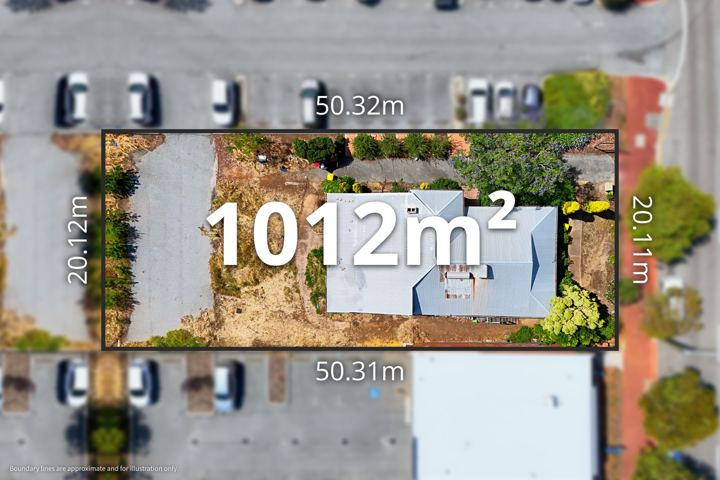
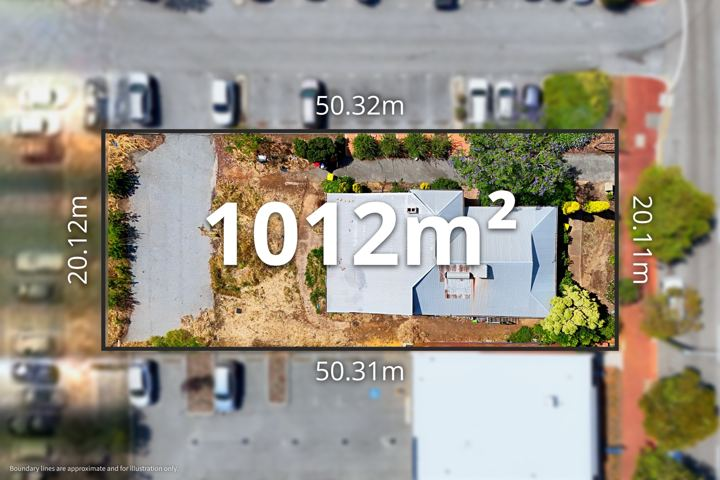
43 William St 0107: satellite background back, colour-matched to the drone
Claude-Session: https://claude.ai/code/session_01A5qGg2LnJXxgSHoMQFvEEG

Changed region(s): [[0.0, 0.125, 0.2139, 1.0], [0.0, 0.0, 0.1222, 0.0625]]

diff --git a/aerials/17-nov-2026/index.html b/aerials/17-nov-2026/index.html
@@ -5,4 +5,4 @@ body{margin:0;background:var(--bg);color:var(--fg);font:15px/1.45 system-ui,-app
 header,section{max-width:1400px;margin:auto;padding:18px 16px}h1{font-size:20px;margin:0}h2{font-size:17px;margin:0}header p,section p{color:var(--mut);margin:4px 0 0}
 .ed{margin-left:10px;color:var(--acc);font-weight:600;text-decoration:none}a{color:var(--acc)}
 .chk{margin-top:10px}.chk summary{cursor:pointer;color:var(--mut);font-weight:600}.chk iframe{width:100%;height:420px;border:0;border-radius:6px;margin-top:6px;background:#111}.g{display:grid;grid-template-columns:repeat(auto-fill,minmax(280px,1fr));gap:8px;margin-top:10px}.g img{width:100%;display:block;border-radius:4px}</style></head>
-<body><header><h1>Drone edits — Tue 17 Nov 2026</h1><p>Tap a photo for full size. <b>Edit</b> opens the job in the <a href="/pins/">editor</a> with all its pins and settings.</p></header><section><h2>SEND TO EDITOR — no lot boundary (Mac offline, no cadastre/satellite); hazy hills/horizon after sky swap on 0218/0220/0227/0229 (tower ghosting removed); both top-downs over-saturated and the house is off-centre — please re-edit sky/colour · 34 Croyden Rd, Roleystone WA 6111</h2><p>Jayden Cooke · Rodway · 13 photos (top-downs first) <a class="ed" href="/pins/?open=17-nov-2026/34_croyden_rd">Edit</a><a class="ed" href="/lots/?img=/aerials/17-nov-2026/34_croyden_rd/src/DJI_20261117135524_0236_D.jpg&street=Croyden%20Road" target="_blank">Lots</a><a class="ed" href="34_croyden_rd/check.html" target="_blank">Check map</a></p><div class="g"><a href="34_croyden_rd/DJI_20261117135524_0236_D.jpg?v=1794930465" target="_blank"><img loading="lazy" src="34_croyden_rd/t/DJI_20261117135524_0236_D.jpg?v=1794930465" alt=""></a><a href="34_croyden_rd/DJI_20261117135538_0237_D_r180_sq.jpg?v=1794930465" target="_blank"><img loading="lazy" src="34_croyden_rd/t/DJI_20261117135538_0237_D_r180_sq.jpg?v=1794930465" alt=""></a><a href="34_croyden_rd/DJI_20261117134904_0218_D.jpg?v=1794930465" target="_blank"><img loading="lazy" src="34_croyden_rd/t/DJI_20261117134904_0218_D.jpg?v=1794930465" alt=""></a><a href="34_croyden_rd/DJI_20261117135013_0220_D.jpg?v=1794930465" target="_blank"><img loading="lazy" src="34_croyden_rd/t/DJI_20261117135013_0220_D.jpg?v=1794930465" alt=""></a><a href="34_croyden_rd/DJI_20261117135036_0221_D.jpg?v=1794930465" target="_blank"><img loading="lazy" src="34_croyden_rd/t/DJI_20261117135036_0221_D.jpg?v=1794930465" alt=""></a><a href="34_croyden_rd/DJI_20261117135113_0223_D.jpg?v=1794930465" target="_blank"><img loading="lazy" src="34_croyden_rd/t/DJI_20261117135113_0223_D.jpg?v=1794930465" alt=""></a><a href="34_croyden_rd/DJI_20261117135138_0224_D.jpg?v=1794930465" target="_blank"><img loading="lazy" src="34_croyden_rd/t/DJI_20261117135138_0224_D.jpg?v=1794930465" alt=""></a><a href="34_croyden_rd/DJI_20261117135159_0225_D.jpg?v=1794930465" target="_blank"><img loading="lazy" src="34_croyden_rd/t/DJI_20261117135159_0225_D.jpg?v=1794930465" alt=""></a><a href="34_croyden_rd/DJI_20261117135227_0227_D.jpg?v=1794930465" target="_blank"><img loading="lazy" src="34_croyden_rd/t/DJI_20261117135227_0227_D.jpg?v=1794930465" alt=""></a><a href="34_croyden_rd/DJI_20261117135326_0229_D.jpg?v=1794930465" target="_blank"><img loading="lazy" src="34_croyden_rd/t/DJI_20261117135326_0229_D.jpg?v=1794930465" alt=""></a><a href="34_croyden_rd/DJI_20261117143956_0239_D.jpg?v=1794930465" target="_blank"><img loading="lazy" src="34_croyden_rd/t/DJI_20261117143956_0239_D.jpg?v=1794930465" alt=""></a><a href="34_croyden_rd/DJI_20261117144039_0240_D.jpg?v=1794930465" target="_blank"><img loading="lazy" src="34_croyden_rd/t/DJI_20261117144039_0240_D.jpg?v=1794930465" alt=""></a><a href="34_croyden_rd/DJI_20261117144046_0241_D.jpg?v=1794930465" target="_blank"><img loading="lazy" src="34_croyden_rd/t/DJI_20261117144046_0241_D.jpg?v=1794930465" alt=""></a></div><details class="chk" open><summary>Quick check — boundary + 9 pinned places</summary><iframe loading="lazy" src="34_croyden_rd/check.html?v=1794930467" title="Boundary and places check"></iframe></details></section><section><h2>SEND TO EDITOR — pale hard-edged band of old sky above the horizon on 0258/0259/0260 after the sky swap; no lot boundary (grouped dwelling, Mac offline) — please re-do the sky on those frames · 374 Light St, Dianella WA 6059</h2><p>Lucy Deng · Ausvision Realty · 11 photos (top-downs first) <a class="ed" href="/pins/?open=17-nov-2026/374_light_st">Edit</a><a class="ed" href="/lots/?img=/aerials/17-nov-2026/374_light_st/src/DJI_20261117160634_0269_D_r180.jpg&street=Light%20Street" target="_blank">Lots</a><a class="ed" href="374_light_st/check.html" target="_blank">Check map</a></p><div class="g"><a href="374_light_st/DJI_20261117160634_0269_D_r180.jpg?v=1794930470" target="_blank"><img loading="lazy" src="374_light_st/t/DJI_20261117160634_0269_D_r180.jpg?v=1794930470" alt=""></a><a href="374_light_st/DJI_20261117160607_0267_D_sq.jpg?v=1794930470" target="_blank"><img loading="lazy" src="374_light_st/t/DJI_20261117160607_0267_D_sq.jpg?v=1794930470" alt=""></a><a href="374_light_st/DJI_20261117160019_0257_D.jpg?v=1794930470" target="_blank"><img loading="lazy" src="374_light_st/t/DJI_20261117160019_0257_D.jpg?v=1794930470" alt=""></a><a href="374_light_st/DJI_20261117160038_0258_D.jpg?v=1794930470" target="_blank"><img loading="lazy" src="374_light_st/t/DJI_20261117160038_0258_D.jpg?v=1794930470" alt=""></a><a href="374_light_st/DJI_20261117160056_0259_D.jpg?v=1794930470" target="_blank"><img loading="lazy" src="374_light_st/t/DJI_20261117160056_0259_D.jpg?v=1794930470" alt=""></a><a href="374_light_st/DJI_20261117160119_0260_D.jpg?v=1794930470" target="_blank"><img loading="lazy" src="374_light_st/t/DJI_20261117160119_0260_D.jpg?v=1794930470" alt=""></a><a href="374_light_st/DJI_20261117160147_0261_D.jpg?v=1794930470" target="_blank"><img loading="lazy" src="374_light_st/t/DJI_20261117160147_0261_D.jpg?v=1794930470" alt=""></a><a href="374_light_st/DJI_20261117160253_0263_D.jpg?v=1794930470" target="_blank"><img loading="lazy" src="374_light_st/t/DJI_20261117160253_0263_D.jpg?v=1794930470" alt=""></a><a href="374_light_st/DJI_20261117160402_0264_D.jpg?v=1794930470" target="_blank"><img loading="lazy" src="374_light_st/t/DJI_20261117160402_0264_D.jpg?v=1794930470" alt=""></a><a href="374_light_st/DJI_20261117160425_0265_D.jpg?v=1794930470" target="_blank"><img loading="lazy" src="374_light_st/t/DJI_20261117160425_0265_D.jpg?v=1794930470" alt=""></a><a href="374_light_st/DJI_20261117160443_0266_D.jpg?v=1794930470" target="_blank"><img loading="lazy" src="374_light_st/t/DJI_20261117160443_0266_D.jpg?v=1794930470" alt=""></a></div><details class="chk" open><summary>Quick check — boundary + 17 pinned places</summary><iframe loading="lazy" src="374_light_st/check.html?v=1794930472" title="Boundary and places check"></iframe></details></section><section><h2>SEND TO EDITOR — white halo/glow strip along the ridge line on 0114/0115 (faint haze 0108/0111/0112) after the sky swap; house is out of shot on 0110 and 0114 (shooter framing) — please re-do the sky and check those frames · 43 William St, Armadale WA 6112</h2><p>Jayden Cooke · Rodway · 10 photos (top-downs first) <a class="ed" href="/pins/?open=17-nov-2026/43_william_st">Edit</a><a class="ed" href="/lots/?img=/aerials/17-nov-2026/43_william_st/src/dji_fly_20261117_102652_0102_1794923605590_photo_sq.JPG&street=William%20Street" target="_blank">Lots</a><a class="ed" href="43_william_st/check.html" target="_blank">Check map</a></p><div class="g"><a href="43_william_st/dji_fly_20261117_102652_0102_1794923605590_photo_sq.jpg?v=1795010000" target="_blank"><img loading="lazy" src="43_william_st/t/dji_fly_20261117_102652_0102_1794923605590_photo_sq.jpg?v=1795010000" alt=""></a><a href="43_william_st/dji_fly_20261117_102734_0107_1794923598787_photo_sq.jpg?v=1795060000" target="_blank"><img loading="lazy" src="43_william_st/t/dji_fly_20261117_102734_0107_1794923598787_photo_sq.jpg?v=1795060000" alt=""></a><a href="43_william_st/dji_fly_20261117_102804_0108_1794923597373_photo.jpg?v=1795010000" target="_blank"><img loading="lazy" src="43_william_st/t/dji_fly_20261117_102804_0108_1794923597373_photo.jpg?v=1795010000" alt=""></a><a href="43_william_st/dji_fly_20261117_102836_0109_1794923595154_photo.jpg?v=1795010000" target="_blank"><img loading="lazy" src="43_william_st/t/dji_fly_20261117_102836_0109_1794923595154_photo.jpg?v=1795010000" alt=""></a><a href="43_william_st/dji_fly_20261117_102942_0110_1794923593774_photo.jpg?v=1795010000" target="_blank"><img loading="lazy" src="43_william_st/t/dji_fly_20261117_102942_0110_1794923593774_photo.jpg?v=1795010000" alt=""></a><a href="43_william_st/dji_fly_20261117_103016_0111_1794923592394_photo.jpg?v=1795010000" target="_blank"><img loading="lazy" src="43_william_st/t/dji_fly_20261117_103016_0111_1794923592394_photo.jpg?v=1795010000" alt=""></a><a href="43_william_st/dji_fly_20261117_103050_0112_1794923591070_photo.jpg?v=1795010000" target="_blank"><img loading="lazy" src="43_william_st/t/dji_fly_20261117_103050_0112_1794923591070_photo.jpg?v=1795010000" alt=""></a><a href="43_william_st/dji_fly_20261117_103102_0113_1794923589788_photo.jpg?v=1795010000" target="_blank"><img loading="lazy" src="43_william_st/t/dji_fly_20261117_103102_0113_1794923589788_photo.jpg?v=1795010000" alt=""></a><a href="43_william_st/dji_fly_20261117_103116_0114_1794923588534_photo.jpg?v=1795010000" target="_blank"><img loading="lazy" src="43_william_st/t/dji_fly_20261117_103116_0114_1794923588534_photo.jpg?v=1795010000" alt=""></a><a href="43_william_st/dji_fly_20261117_103130_0115_1794923587236_photo.jpg?v=1795010000" target="_blank"><img loading="lazy" src="43_william_st/t/dji_fly_20261117_103130_0115_1794923587236_photo.jpg?v=1795010000" alt=""></a></div><details class="chk" open><summary>Quick check — boundary + 12 pinned places</summary><iframe loading="lazy" src="43_william_st/check.html?v=1794950668" title="Boundary and places check"></iframe></details></section><section><h2>SEND TO EDITOR — sky swap left ghost blocks of old sky above the horizon on 0125/0126/0127 and halos/ghosting around the CBD towers on 0118/0119/0128, grey haze over the hills on 0123/0124 — please replace the sky on every oblique · 28/76 Newcastle St, West Perth WA 6005</h2><p>Shane Garrett · Belle Property · 13 photos (top-downs first) <a class="ed" href="/pins/?open=17-nov-2026/28_76_newcastle_st">Edit</a><a class="ed" href="/lots/?img=/aerials/17-nov-2026/28_76_newcastle_st/src/dji_fly_20261117_123400_0117_1794923584798_photo_r180_sq.JPG&street=Newcastle%20Street" target="_blank">Lots</a><a class="ed" href="28_76_newcastle_st/check.html" target="_blank">Check map</a></p><div class="g"><a href="28_76_newcastle_st/dji_fly_20261117_123400_0117_1794923584798_photo_r180_sq.jpg?v=1794950677" target="_blank"><img loading="lazy" src="28_76_newcastle_st/t/dji_fly_20261117_123400_0117_1794923584798_photo_r180_sq.jpg?v=1794950677" alt=""></a><a href="28_76_newcastle_st/dji_fly_20261117_123356_0116_1794923585995_photo.jpg?v=1794950678" target="_blank"><img loading="lazy" src="28_76_newcastle_st/t/dji_fly_20261117_123356_0116_1794923585995_photo.jpg?v=1794950678" alt=""></a><a href="28_76_newcastle_st/dji_fly_20261117_123438_0118_1794923583683_photo.jpg?v=1794950678" target="_blank"><img loading="lazy" src="28_76_newcastle_st/t/dji_fly_20261117_123438_0118_1794923583683_photo.jpg?v=1794950678" alt=""></a><a href="28_76_newcastle_st/dji_fly_20261117_123500_0119_1794923582541_photo.jpg?v=1794950678" target="_blank"><img loading="lazy" src="28_76_newcastle_st/t/dji_fly_20261117_123500_0119_1794923582541_photo.jpg?v=1794950678" alt=""></a><a href="28_76_newcastle_st/dji_fly_20261117_123532_0120_1794923581349_photo.jpg?v=1794950678" target="_blank"><img loading="lazy" src="28_76_newcastle_st/t/dji_fly_20261117_123532_0120_1794923581349_photo.jpg?v=1794950678" alt=""></a><a href="28_76_newcastle_st/dji_fly_20261117_123548_0121_1794923580121_photo.jpg?v=1794950678" target="_blank"><img loading="lazy" src="28_76_newcastle_st/t/dji_fly_20261117_123548_0121_1794923580121_photo.jpg?v=1794950678" alt=""></a><a href="28_76_newcastle_st/dji_fly_20261117_123610_0122_1794923578874_photo.jpg?v=1794950678" target="_blank"><img loading="lazy" src="28_76_newcastle_st/t/dji_fly_20261117_123610_0122_1794923578874_photo.jpg?v=1794950678" alt=""></a><a href="28_76_newcastle_st/dji_fly_20261117_123630_0123_1794923577572_photo.jpg?v=1794950678" target="_blank"><img loading="lazy" src="28_76_newcastle_st/t/dji_fly_20261117_123630_0123_1794923577572_photo.jpg?v=1794950678" alt=""></a><a href="28_76_newcastle_st/dji_fly_20261117_123646_0124_1794923576272_photo.jpg?v=1794950678" target="_blank"><img loading="lazy" src="28_76_newcastle_st/t/dji_fly_20261117_123646_0124_1794923576272_photo.jpg?v=1794950678" alt=""></a><a href="28_76_newcastle_st/dji_fly_20261117_123702_0125_1794923575020_photo.jpg?v=1794950678" target="_blank"><img loading="lazy" src="28_76_newcastle_st/t/dji_fly_20261117_123702_0125_1794923575020_photo.jpg?v=1794950678" alt=""></a><a href="28_76_newcastle_st/dji_fly_20261117_123724_0126_1794923573753_photo.jpg?v=1794950678" target="_blank"><img loading="lazy" src="28_76_newcastle_st/t/dji_fly_20261117_123724_0126_1794923573753_photo.jpg?v=1794950678" alt=""></a><a href="28_76_newcastle_st/dji_fly_20261117_123754_0127_1794923572402_photo.jpg?v=1794950678" target="_blank"><img loading="lazy" src="28_76_newcastle_st/t/dji_fly_20261117_123754_0127_1794923572402_photo.jpg?v=1794950678" alt=""></a><a href="28_76_newcastle_st/dji_fly_20261117_123806_0128_1794923571185_photo.jpg?v=1794950678" target="_blank"><img loading="lazy" src="28_76_newcastle_st/t/dji_fly_20261117_123806_0128_1794923571185_photo.jpg?v=1794950678" alt=""></a></div><details class="chk" open><summary>Quick check — boundary + 8 pinned places</summary><iframe loading="lazy" src="28_76_newcastle_st/check.html?v=1794950681" title="Boundary and places check"></iframe></details></section><section><h2>SEND TO EDITOR — CBD tower tops ghosted after the sky swap on 0135/0136, faint halo 0131 and haze 0133/0134 — please re-do the sky on the obliques · 79/1178 Hay St, West Perth WA 6005</h2><p>Megan Topham · Belle Property · 12 photos (top-downs first) <a class="ed" href="/pins/?open=17-nov-2026/79_1178_hay_st">Edit</a><a class="ed" href="/lots/?img=/aerials/17-nov-2026/79_1178_hay_st/src/dji_fly_20261117_160212_0129_1794923569992_photo_r270.JPG&street=Hay%20Street" target="_blank">Lots</a><a class="ed" href="79_1178_hay_st/check.html" target="_blank">Check map</a></p><div class="g"><a href="79_1178_hay_st/dji_fly_20261117_160212_0129_1794923569992_photo_r270.jpg?v=1794950688" target="_blank"><img loading="lazy" src="79_1178_hay_st/t/dji_fly_20261117_160212_0129_1794923569992_photo_r270.jpg?v=1794950688" alt=""></a><a href="79_1178_hay_st/dji_fly_20261117_160212_0129_1794923569992_photo.jpg?v=1794950688" target="_blank"><img loading="lazy" src="79_1178_hay_st/t/dji_fly_20261117_160212_0129_1794923569992_photo.jpg?v=1794950688" alt=""></a><a href="79_1178_hay_st/dji_fly_20261117_160252_0130_1794923568799_photo.jpg?v=1794950688" target="_blank"><img loading="lazy" src="79_1178_hay_st/t/dji_fly_20261117_160252_0130_1794923568799_photo.jpg?v=1794950688" alt=""></a><a href="79_1178_hay_st/dji_fly_20261117_160320_0131_1794923567548_photo.jpg?v=1794950688" target="_blank"><img loading="lazy" src="79_1178_hay_st/t/dji_fly_20261117_160320_0131_1794923567548_photo.jpg?v=1794950688" alt=""></a><a href="79_1178_hay_st/dji_fly_20261117_160336_0132_1794923565379_photo.jpg?v=1794950688" target="_blank"><img loading="lazy" src="79_1178_hay_st/t/dji_fly_20261117_160336_0132_1794923565379_photo.jpg?v=1794950688" alt=""></a><a href="79_1178_hay_st/dji_fly_20261117_160354_0133_1794923564099_photo.jpg?v=1794950688" target="_blank"><img loading="lazy" src="79_1178_hay_st/t/dji_fly_20261117_160354_0133_1794923564099_photo.jpg?v=1794950688" alt=""></a><a href="79_1178_hay_st/dji_fly_20261117_160406_0134_1794923562823_photo.jpg?v=1794950688" target="_blank"><img loading="lazy" src="79_1178_hay_st/t/dji_fly_20261117_160406_0134_1794923562823_photo.jpg?v=1794950688" alt=""></a><a href="79_1178_hay_st/dji_fly_20261117_160428_0135_1794923561548_photo.jpg?v=1794950688" target="_blank"><img loading="lazy" src="79_1178_hay_st/t/dji_fly_20261117_160428_0135_1794923561548_photo.jpg?v=1794950688" alt=""></a><a href="79_1178_hay_st/dji_fly_20261117_160446_0136_1794923560286_photo.jpg?v=1794950688" target="_blank"><img loading="lazy" src="79_1178_hay_st/t/dji_fly_20261117_160446_0136_1794923560286_photo.jpg?v=1794950688" alt=""></a><a href="79_1178_hay_st/dji_fly_20261117_160512_0137_1794923559042_photo.jpg?v=1794950688" target="_blank"><img loading="lazy" src="79_1178_hay_st/t/dji_fly_20261117_160512_0137_1794923559042_photo.jpg?v=1794950688" alt=""></a><a href="79_1178_hay_st/dji_fly_20261117_160530_0138_1794923557769_photo.jpg?v=1794950688" target="_blank"><img loading="lazy" src="79_1178_hay_st/t/dji_fly_20261117_160530_0138_1794923557769_photo.jpg?v=1794950688" alt=""></a><a href="79_1178_hay_st/dji_fly_20261117_160548_0139_1794923556478_photo.jpg?v=1794950688" target="_blank"><img loading="lazy" src="79_1178_hay_st/t/dji_fly_20261117_160548_0139_1794923556478_photo.jpg?v=1794950688" alt=""></a></div><details class="chk" open><summary>Quick check — boundary + 10 pinned places</summary><iframe loading="lazy" src="79_1178_hay_st/check.html?v=1794950691" title="Boundary and places check"></iframe></details></section><script src="../dl.js"></script></body></html>
+<body><header><h1>Drone edits — Tue 17 Nov 2026</h1><p>Tap a photo for full size. <b>Edit</b> opens the job in the <a href="/pins/">editor</a> with all its pins and settings.</p></header><section><h2>SEND TO EDITOR — no lot boundary (Mac offline, no cadastre/satellite); hazy hills/horizon after sky swap on 0218/0220/0227/0229 (tower ghosting removed); both top-downs over-saturated and the house is off-centre — please re-edit sky/colour · 34 Croyden Rd, Roleystone WA 6111</h2><p>Jayden Cooke · Rodway · 13 photos (top-downs first) <a class="ed" href="/pins/?open=17-nov-2026/34_croyden_rd">Edit</a><a class="ed" href="/lots/?img=/aerials/17-nov-2026/34_croyden_rd/src/DJI_20261117135524_0236_D.jpg&street=Croyden%20Road" target="_blank">Lots</a><a class="ed" href="34_croyden_rd/check.html" target="_blank">Check map</a></p><div class="g"><a href="34_croyden_rd/DJI_20261117135524_0236_D.jpg?v=1794930465" target="_blank"><img loading="lazy" src="34_croyden_rd/t/DJI_20261117135524_0236_D.jpg?v=1794930465" alt=""></a><a href="34_croyden_rd/DJI_20261117135538_0237_D_r180_sq.jpg?v=1794930465" target="_blank"><img loading="lazy" src="34_croyden_rd/t/DJI_20261117135538_0237_D_r180_sq.jpg?v=1794930465" alt=""></a><a href="34_croyden_rd/DJI_20261117134904_0218_D.jpg?v=1794930465" target="_blank"><img loading="lazy" src="34_croyden_rd/t/DJI_20261117134904_0218_D.jpg?v=1794930465" alt=""></a><a href="34_croyden_rd/DJI_20261117135013_0220_D.jpg?v=1794930465" target="_blank"><img loading="lazy" src="34_croyden_rd/t/DJI_20261117135013_0220_D.jpg?v=1794930465" alt=""></a><a href="34_croyden_rd/DJI_20261117135036_0221_D.jpg?v=1794930465" target="_blank"><img loading="lazy" src="34_croyden_rd/t/DJI_20261117135036_0221_D.jpg?v=1794930465" alt=""></a><a href="34_croyden_rd/DJI_20261117135113_0223_D.jpg?v=1794930465" target="_blank"><img loading="lazy" src="34_croyden_rd/t/DJI_20261117135113_0223_D.jpg?v=1794930465" alt=""></a><a href="34_croyden_rd/DJI_20261117135138_0224_D.jpg?v=1794930465" target="_blank"><img loading="lazy" src="34_croyden_rd/t/DJI_20261117135138_0224_D.jpg?v=1794930465" alt=""></a><a href="34_croyden_rd/DJI_20261117135159_0225_D.jpg?v=1794930465" target="_blank"><img loading="lazy" src="34_croyden_rd/t/DJI_20261117135159_0225_D.jpg?v=1794930465" alt=""></a><a href="34_croyden_rd/DJI_20261117135227_0227_D.jpg?v=1794930465" target="_blank"><img loading="lazy" src="34_croyden_rd/t/DJI_20261117135227_0227_D.jpg?v=1794930465" alt=""></a><a href="34_croyden_rd/DJI_20261117135326_0229_D.jpg?v=1794930465" target="_blank"><img loading="lazy" src="34_croyden_rd/t/DJI_20261117135326_0229_D.jpg?v=1794930465" alt=""></a><a href="34_croyden_rd/DJI_20261117143956_0239_D.jpg?v=1794930465" target="_blank"><img loading="lazy" src="34_croyden_rd/t/DJI_20261117143956_0239_D.jpg?v=1794930465" alt=""></a><a href="34_croyden_rd/DJI_20261117144039_0240_D.jpg?v=1794930465" target="_blank"><img loading="lazy" src="34_croyden_rd/t/DJI_20261117144039_0240_D.jpg?v=1794930465" alt=""></a><a href="34_croyden_rd/DJI_20261117144046_0241_D.jpg?v=1794930465" target="_blank"><img loading="lazy" src="34_croyden_rd/t/DJI_20261117144046_0241_D.jpg?v=1794930465" alt=""></a></div><details class="chk" open><summary>Quick check — boundary + 9 pinned places</summary><iframe loading="lazy" src="34_croyden_rd/check.html?v=1794930467" title="Boundary and places check"></iframe></details></section><section><h2>SEND TO EDITOR — pale hard-edged band of old sky above the horizon on 0258/0259/0260 after the sky swap; no lot boundary (grouped dwelling, Mac offline) — please re-do the sky on those frames · 374 Light St, Dianella WA 6059</h2><p>Lucy Deng · Ausvision Realty · 11 photos (top-downs first) <a class="ed" href="/pins/?open=17-nov-2026/374_light_st">Edit</a><a class="ed" href="/lots/?img=/aerials/17-nov-2026/374_light_st/src/DJI_20261117160634_0269_D_r180.jpg&street=Light%20Street" target="_blank">Lots</a><a class="ed" href="374_light_st/check.html" target="_blank">Check map</a></p><div class="g"><a href="374_light_st/DJI_20261117160634_0269_D_r180.jpg?v=1794930470" target="_blank"><img loading="lazy" src="374_light_st/t/DJI_20261117160634_0269_D_r180.jpg?v=1794930470" alt=""></a><a href="374_light_st/DJI_20261117160607_0267_D_sq.jpg?v=1794930470" target="_blank"><img loading="lazy" src="374_light_st/t/DJI_20261117160607_0267_D_sq.jpg?v=1794930470" alt=""></a><a href="374_light_st/DJI_20261117160019_0257_D.jpg?v=1794930470" target="_blank"><img loading="lazy" src="374_light_st/t/DJI_20261117160019_0257_D.jpg?v=1794930470" alt=""></a><a href="374_light_st/DJI_20261117160038_0258_D.jpg?v=1794930470" target="_blank"><img loading="lazy" src="374_light_st/t/DJI_20261117160038_0258_D.jpg?v=1794930470" alt=""></a><a href="374_light_st/DJI_20261117160056_0259_D.jpg?v=1794930470" target="_blank"><img loading="lazy" src="374_light_st/t/DJI_20261117160056_0259_D.jpg?v=1794930470" alt=""></a><a href="374_light_st/DJI_20261117160119_0260_D.jpg?v=1794930470" target="_blank"><img loading="lazy" src="374_light_st/t/DJI_20261117160119_0260_D.jpg?v=1794930470" alt=""></a><a href="374_light_st/DJI_20261117160147_0261_D.jpg?v=1794930470" target="_blank"><img loading="lazy" src="374_light_st/t/DJI_20261117160147_0261_D.jpg?v=1794930470" alt=""></a><a href="374_light_st/DJI_20261117160253_0263_D.jpg?v=1794930470" target="_blank"><img loading="lazy" src="374_light_st/t/DJI_20261117160253_0263_D.jpg?v=1794930470" alt=""></a><a href="374_light_st/DJI_20261117160402_0264_D.jpg?v=1794930470" target="_blank"><img loading="lazy" src="374_light_st/t/DJI_20261117160402_0264_D.jpg?v=1794930470" alt=""></a><a href="374_light_st/DJI_20261117160425_0265_D.jpg?v=1794930470" target="_blank"><img loading="lazy" src="374_light_st/t/DJI_20261117160425_0265_D.jpg?v=1794930470" alt=""></a><a href="374_light_st/DJI_20261117160443_0266_D.jpg?v=1794930470" target="_blank"><img loading="lazy" src="374_light_st/t/DJI_20261117160443_0266_D.jpg?v=1794930470" alt=""></a></div><details class="chk" open><summary>Quick check — boundary + 17 pinned places</summary><iframe loading="lazy" src="374_light_st/check.html?v=1794930472" title="Boundary and places check"></iframe></details></section><section><h2>SEND TO EDITOR — white halo/glow strip along the ridge line on 0114/0115 (faint haze 0108/0111/0112) after the sky swap; house is out of shot on 0110 and 0114 (shooter framing) — please re-do the sky and check those frames · 43 William St, Armadale WA 6112</h2><p>Jayden Cooke · Rodway · 10 photos (top-downs first) <a class="ed" href="/pins/?open=17-nov-2026/43_william_st">Edit</a><a class="ed" href="/lots/?img=/aerials/17-nov-2026/43_william_st/src/dji_fly_20261117_102652_0102_1794923605590_photo_sq.JPG&street=William%20Street" target="_blank">Lots</a><a class="ed" href="43_william_st/check.html" target="_blank">Check map</a></p><div class="g"><a href="43_william_st/dji_fly_20261117_102652_0102_1794923605590_photo_sq.jpg?v=1795010000" target="_blank"><img loading="lazy" src="43_william_st/t/dji_fly_20261117_102652_0102_1794923605590_photo_sq.jpg?v=1795010000" alt=""></a><a href="43_william_st/dji_fly_20261117_102734_0107_1794923598787_photo_sq.jpg?v=1795070000" target="_blank"><img loading="lazy" src="43_william_st/t/dji_fly_20261117_102734_0107_1794923598787_photo_sq.jpg?v=1795070000" alt=""></a><a href="43_william_st/dji_fly_20261117_102804_0108_1794923597373_photo.jpg?v=1795010000" target="_blank"><img loading="lazy" src="43_william_st/t/dji_fly_20261117_102804_0108_1794923597373_photo.jpg?v=1795010000" alt=""></a><a href="43_william_st/dji_fly_20261117_102836_0109_1794923595154_photo.jpg?v=1795010000" target="_blank"><img loading="lazy" src="43_william_st/t/dji_fly_20261117_102836_0109_1794923595154_photo.jpg?v=1795010000" alt=""></a><a href="43_william_st/dji_fly_20261117_102942_0110_1794923593774_photo.jpg?v=1795010000" target="_blank"><img loading="lazy" src="43_william_st/t/dji_fly_20261117_102942_0110_1794923593774_photo.jpg?v=1795010000" alt=""></a><a href="43_william_st/dji_fly_20261117_103016_0111_1794923592394_photo.jpg?v=1795010000" target="_blank"><img loading="lazy" src="43_william_st/t/dji_fly_20261117_103016_0111_1794923592394_photo.jpg?v=1795010000" alt=""></a><a href="43_william_st/dji_fly_20261117_103050_0112_1794923591070_photo.jpg?v=1795010000" target="_blank"><img loading="lazy" src="43_william_st/t/dji_fly_20261117_103050_0112_1794923591070_photo.jpg?v=1795010000" alt=""></a><a href="43_william_st/dji_fly_20261117_103102_0113_1794923589788_photo.jpg?v=1795010000" target="_blank"><img loading="lazy" src="43_william_st/t/dji_fly_20261117_103102_0113_1794923589788_photo.jpg?v=1795010000" alt=""></a><a href="43_william_st/dji_fly_20261117_103116_0114_1794923588534_photo.jpg?v=1795010000" target="_blank"><img loading="lazy" src="43_william_st/t/dji_fly_20261117_103116_0114_1794923588534_photo.jpg?v=1795010000" alt=""></a><a href="43_william_st/dji_fly_20261117_103130_0115_1794923587236_photo.jpg?v=1795010000" target="_blank"><img loading="lazy" src="43_william_st/t/dji_fly_20261117_103130_0115_1794923587236_photo.jpg?v=1795010000" alt=""></a></div><details class="chk" open><summary>Quick check — boundary + 12 pinned places</summary><iframe loading="lazy" src="43_william_st/check.html?v=1794950668" title="Boundary and places check"></iframe></details></section><section><h2>SEND TO EDITOR — sky swap left ghost blocks of old sky above the horizon on 0125/0126/0127 and halos/ghosting around the CBD towers on 0118/0119/0128, grey haze over the hills on 0123/0124 — please replace the sky on every oblique · 28/76 Newcastle St, West Perth WA 6005</h2><p>Shane Garrett · Belle Property · 13 photos (top-downs first) <a class="ed" href="/pins/?open=17-nov-2026/28_76_newcastle_st">Edit</a><a class="ed" href="/lots/?img=/aerials/17-nov-2026/28_76_newcastle_st/src/dji_fly_20261117_123400_0117_1794923584798_photo_r180_sq.JPG&street=Newcastle%20Street" target="_blank">Lots</a><a class="ed" href="28_76_newcastle_st/check.html" target="_blank">Check map</a></p><div class="g"><a href="28_76_newcastle_st/dji_fly_20261117_123400_0117_1794923584798_photo_r180_sq.jpg?v=1794950677" target="_blank"><img loading="lazy" src="28_76_newcastle_st/t/dji_fly_20261117_123400_0117_1794923584798_photo_r180_sq.jpg?v=1794950677" alt=""></a><a href="28_76_newcastle_st/dji_fly_20261117_123356_0116_1794923585995_photo.jpg?v=1794950678" target="_blank"><img loading="lazy" src="28_76_newcastle_st/t/dji_fly_20261117_123356_0116_1794923585995_photo.jpg?v=1794950678" alt=""></a><a href="28_76_newcastle_st/dji_fly_20261117_123438_0118_1794923583683_photo.jpg?v=1794950678" target="_blank"><img loading="lazy" src="28_76_newcastle_st/t/dji_fly_20261117_123438_0118_1794923583683_photo.jpg?v=1794950678" alt=""></a><a href="28_76_newcastle_st/dji_fly_20261117_123500_0119_1794923582541_photo.jpg?v=1794950678" target="_blank"><img loading="lazy" src="28_76_newcastle_st/t/dji_fly_20261117_123500_0119_1794923582541_photo.jpg?v=1794950678" alt=""></a><a href="28_76_newcastle_st/dji_fly_20261117_123532_0120_1794923581349_photo.jpg?v=1794950678" target="_blank"><img loading="lazy" src="28_76_newcastle_st/t/dji_fly_20261117_123532_0120_1794923581349_photo.jpg?v=1794950678" alt=""></a><a href="28_76_newcastle_st/dji_fly_20261117_123548_0121_1794923580121_photo.jpg?v=1794950678" target="_blank"><img loading="lazy" src="28_76_newcastle_st/t/dji_fly_20261117_123548_0121_1794923580121_photo.jpg?v=1794950678" alt=""></a><a href="28_76_newcastle_st/dji_fly_20261117_123610_0122_1794923578874_photo.jpg?v=1794950678" target="_blank"><img loading="lazy" src="28_76_newcastle_st/t/dji_fly_20261117_123610_0122_1794923578874_photo.jpg?v=1794950678" alt=""></a><a href="28_76_newcastle_st/dji_fly_20261117_123630_0123_1794923577572_photo.jpg?v=1794950678" target="_blank"><img loading="lazy" src="28_76_newcastle_st/t/dji_fly_20261117_123630_0123_1794923577572_photo.jpg?v=1794950678" alt=""></a><a href="28_76_newcastle_st/dji_fly_20261117_123646_0124_1794923576272_photo.jpg?v=1794950678" target="_blank"><img loading="lazy" src="28_76_newcastle_st/t/dji_fly_20261117_123646_0124_1794923576272_photo.jpg?v=1794950678" alt=""></a><a href="28_76_newcastle_st/dji_fly_20261117_123702_0125_1794923575020_photo.jpg?v=1794950678" target="_blank"><img loading="lazy" src="28_76_newcastle_st/t/dji_fly_20261117_123702_0125_1794923575020_photo.jpg?v=1794950678" alt=""></a><a href="28_76_newcastle_st/dji_fly_20261117_123724_0126_1794923573753_photo.jpg?v=1794950678" target="_blank"><img loading="lazy" src="28_76_newcastle_st/t/dji_fly_20261117_123724_0126_1794923573753_photo.jpg?v=1794950678" alt=""></a><a href="28_76_newcastle_st/dji_fly_20261117_123754_0127_1794923572402_photo.jpg?v=1794950678" target="_blank"><img loading="lazy" src="28_76_newcastle_st/t/dji_fly_20261117_123754_0127_1794923572402_photo.jpg?v=1794950678" alt=""></a><a href="28_76_newcastle_st/dji_fly_20261117_123806_0128_1794923571185_photo.jpg?v=1794950678" target="_blank"><img loading="lazy" src="28_76_newcastle_st/t/dji_fly_20261117_123806_0128_1794923571185_photo.jpg?v=1794950678" alt=""></a></div><details class="chk" open><summary>Quick check — boundary + 8 pinned places</summary><iframe loading="lazy" src="28_76_newcastle_st/check.html?v=1794950681" title="Boundary and places check"></iframe></details></section><section><h2>SEND TO EDITOR — CBD tower tops ghosted after the sky swap on 0135/0136, faint halo 0131 and haze 0133/0134 — please re-do the sky on the obliques · 79/1178 Hay St, West Perth WA 6005</h2><p>Megan Topham · Belle Property · 12 photos (top-downs first) <a class="ed" href="/pins/?open=17-nov-2026/79_1178_hay_st">Edit</a><a class="ed" href="/lots/?img=/aerials/17-nov-2026/79_1178_hay_st/src/dji_fly_20261117_160212_0129_1794923569992_photo_r270.JPG&street=Hay%20Street" target="_blank">Lots</a><a class="ed" href="79_1178_hay_st/check.html" target="_blank">Check map</a></p><div class="g"><a href="79_1178_hay_st/dji_fly_20261117_160212_0129_1794923569992_photo_r270.jpg?v=1794950688" target="_blank"><img loading="lazy" src="79_1178_hay_st/t/dji_fly_20261117_160212_0129_1794923569992_photo_r270.jpg?v=1794950688" alt=""></a><a href="79_1178_hay_st/dji_fly_20261117_160212_0129_1794923569992_photo.jpg?v=1794950688" target="_blank"><img loading="lazy" src="79_1178_hay_st/t/dji_fly_20261117_160212_0129_1794923569992_photo.jpg?v=1794950688" alt=""></a><a href="79_1178_hay_st/dji_fly_20261117_160252_0130_1794923568799_photo.jpg?v=1794950688" target="_blank"><img loading="lazy" src="79_1178_hay_st/t/dji_fly_20261117_160252_0130_1794923568799_photo.jpg?v=1794950688" alt=""></a><a href="79_1178_hay_st/dji_fly_20261117_160320_0131_1794923567548_photo.jpg?v=1794950688" target="_blank"><img loading="lazy" src="79_1178_hay_st/t/dji_fly_20261117_160320_0131_1794923567548_photo.jpg?v=1794950688" alt=""></a><a href="79_1178_hay_st/dji_fly_20261117_160336_0132_1794923565379_photo.jpg?v=1794950688" target="_blank"><img loading="lazy" src="79_1178_hay_st/t/dji_fly_20261117_160336_0132_1794923565379_photo.jpg?v=1794950688" alt=""></a><a href="79_1178_hay_st/dji_fly_20261117_160354_0133_1794923564099_photo.jpg?v=1794950688" target="_blank"><img loading="lazy" src="79_1178_hay_st/t/dji_fly_20261117_160354_0133_1794923564099_photo.jpg?v=1794950688" alt=""></a><a href="79_1178_hay_st/dji_fly_20261117_160406_0134_1794923562823_photo.jpg?v=1794950688" target="_blank"><img loading="lazy" src="79_1178_hay_st/t/dji_fly_20261117_160406_0134_1794923562823_photo.jpg?v=1794950688" alt=""></a><a href="79_1178_hay_st/dji_fly_20261117_160428_0135_1794923561548_photo.jpg?v=1794950688" target="_blank"><img loading="lazy" src="79_1178_hay_st/t/dji_fly_20261117_160428_0135_1794923561548_photo.jpg?v=1794950688" alt=""></a><a href="79_1178_hay_st/dji_fly_20261117_160446_0136_1794923560286_photo.jpg?v=1794950688" target="_blank"><img loading="lazy" src="79_1178_hay_st/t/dji_fly_20261117_160446_0136_1794923560286_photo.jpg?v=1794950688" alt=""></a><a href="79_1178_hay_st/dji_fly_20261117_160512_0137_1794923559042_photo.jpg?v=1794950688" target="_blank"><img loading="lazy" src="79_1178_hay_st/t/dji_fly_20261117_160512_0137_1794923559042_photo.jpg?v=1794950688" alt=""></a><a href="79_1178_hay_st/dji_fly_20261117_160530_0138_1794923557769_photo.jpg?v=1794950688" target="_blank"><img loading="lazy" src="79_1178_hay_st/t/dji_fly_20261117_160530_0138_1794923557769_photo.jpg?v=1794950688" alt=""></a><a href="79_1178_hay_st/dji_fly_20261117_160548_0139_1794923556478_photo.jpg?v=1794950688" target="_blank"><img loading="lazy" src="79_1178_hay_st/t/dji_fly_20261117_160548_0139_1794923556478_photo.jpg?v=1794950688" alt=""></a></div><details class="chk" open><summary>Quick check — boundary + 10 pinned places</summary><iframe loading="lazy" src="79_1178_hay_st/check.html?v=1794950691" title="Boundary and places check"></iframe></details></section><script src="../dl.js"></script></body></html>
